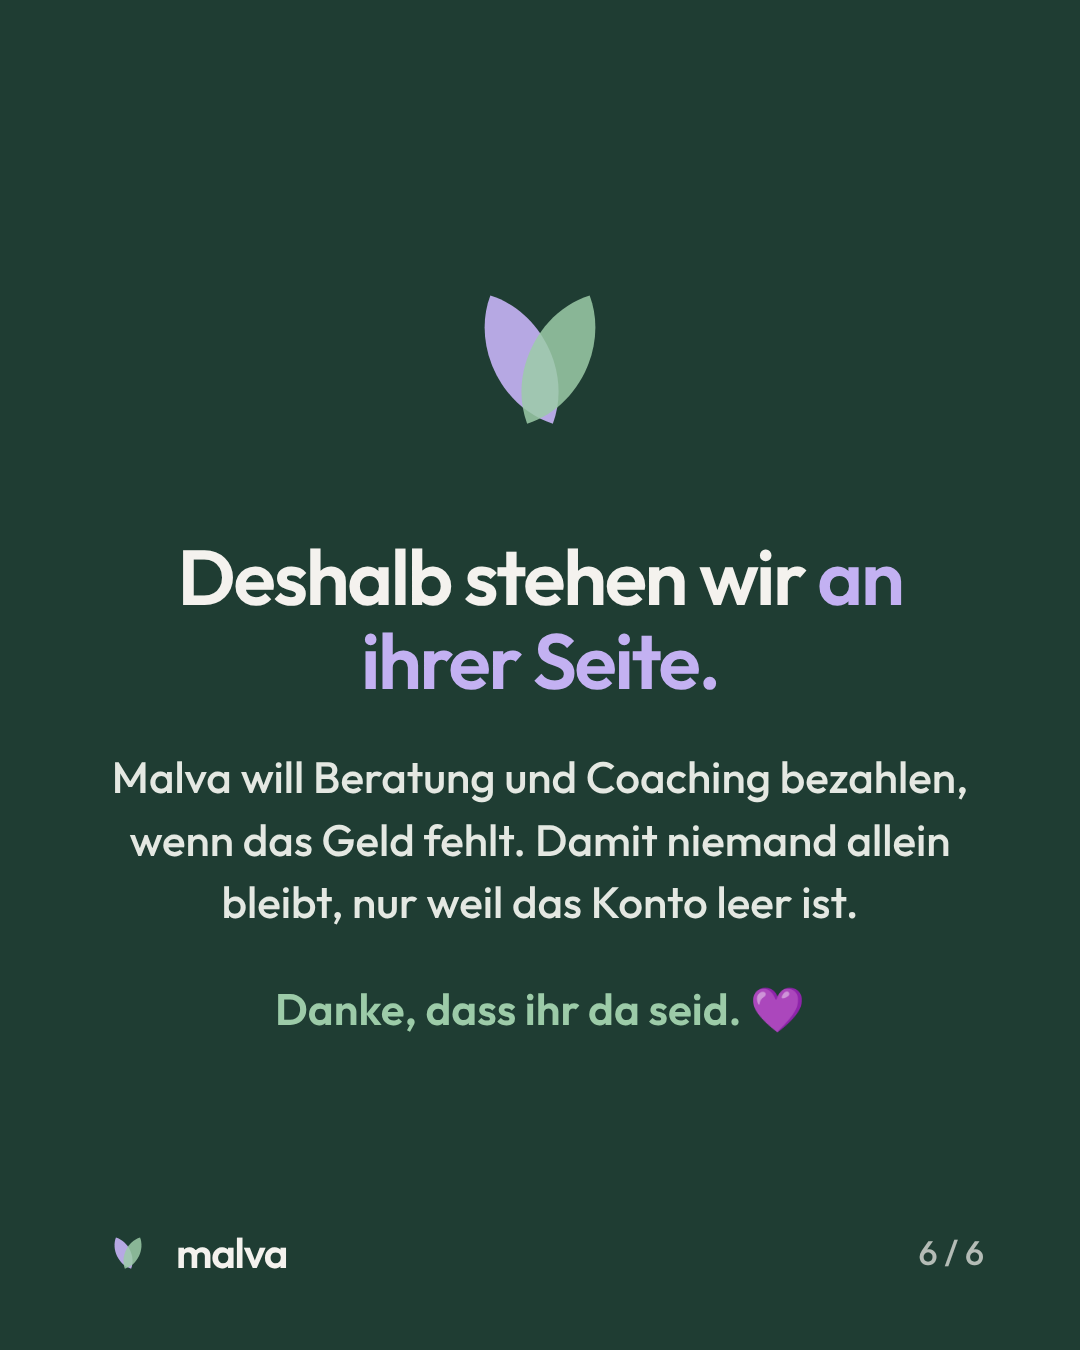
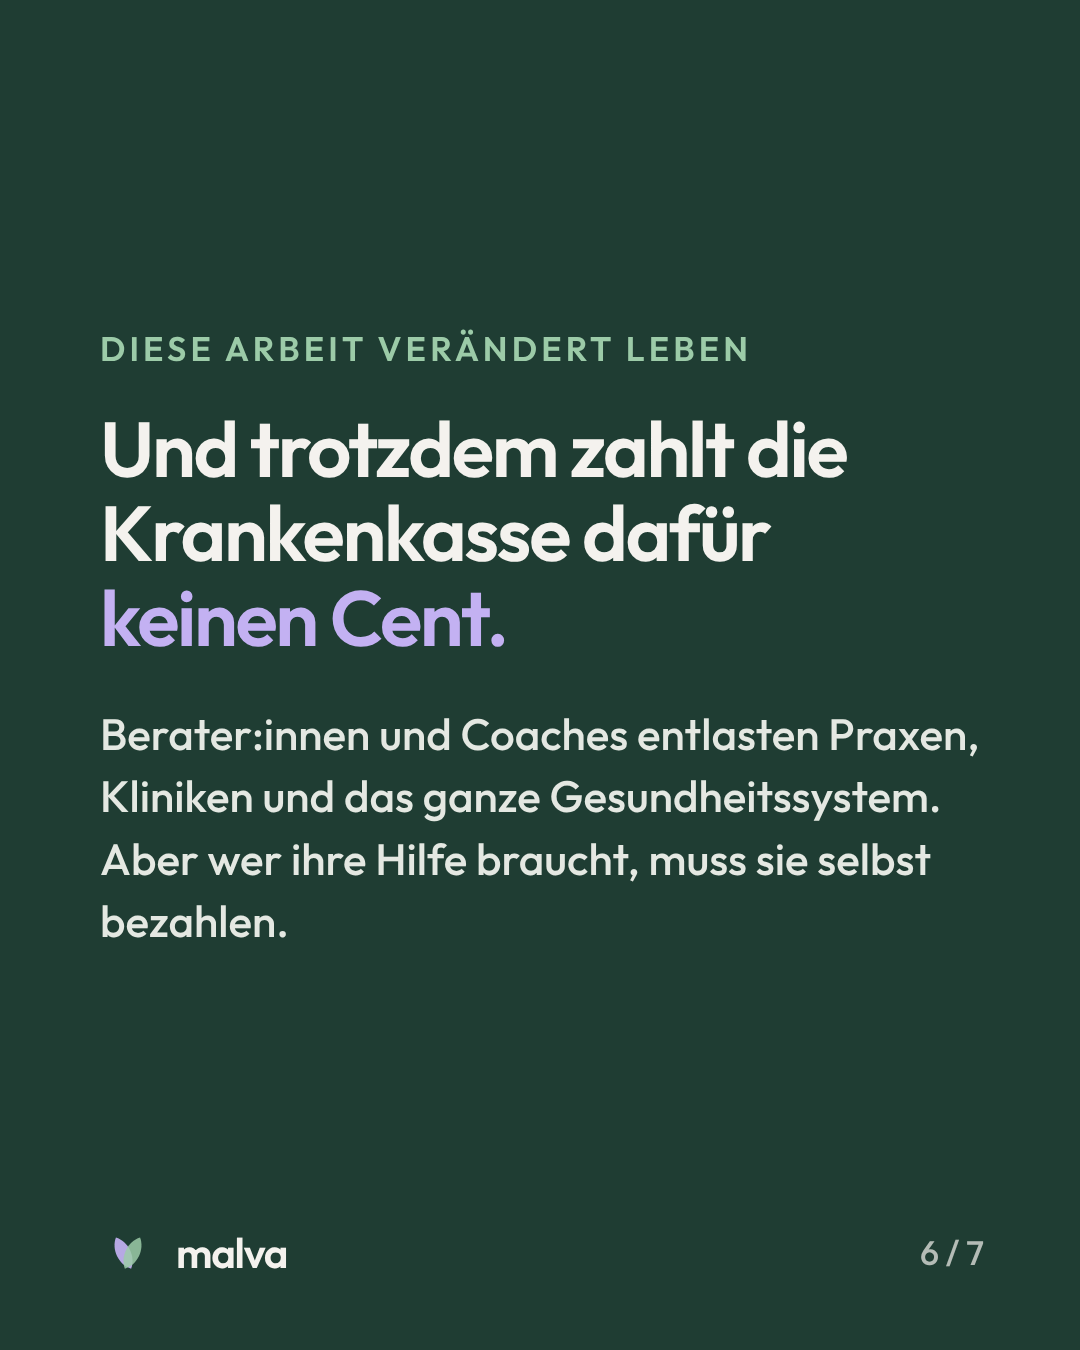
Karussell Berater: 7 Folien, neue Reihenfolge
Claude-Session: https://claude.ai/code/session_015uEer6M6e5oi78ZvJtGjnt

diff --git a/malva-website/instagram/berater-coaches/slides.html b/malva-website/instagram/berater-coaches/slides.html
@@ -74,7 +74,8 @@ h2{font-weight:600;font-size:84px;line-height:1.06;letter-spacing:-.03em}
 <section class="slide dark" id="s1">
   <span class="deco" data-mark="d"></span>
   <p class="kicker">Für alle Berater:innen und Coaches</p>
-  <h2 class="big">Manchmal braucht es nur einen Menschen, der zuhört, <span class="hl">bevor alles zerbricht.</span></h2>
+  <h2 class="big">Berater:innen und Coaches fangen Menschen auf, <span class="hl">bevor sie fallen.</span></h2>
+  <p class="lead2">Manchmal braucht es nur einen Menschen, der zuhört und hilft, bevor alles zerbricht.</p>
   <div class="foot"><div class="brand" data-mark="d"><span>malva</span></div><span class="swipe">Wischen →</span></div>
 </section>
 
@@ -87,39 +88,45 @@ h2{font-weight:600;font-size:84px;line-height:1.06;letter-spacing:-.03em}
     <div><span data-mark="h"></span>Der Mensch, der nicht mehr weiß, wer er ist</div>
     <div><span data-mark="h"></span>Das Paar, das kurz vor dem Aus steht</div>
   </div>
-  <div class="foot"><div class="brand" data-mark="h"><span>malva</span></div><span class="num">2 / 6</span></div>
+  <div class="foot"><div class="brand" data-mark="h"><span>malva</span></div><span class="num">2 / 7</span></div>
 </section>
 
-<section class="slide dark" id="s3">
-  <h2 class="big">Sie fangen auf, <span class="hl">bevor jemand fällt.</span></h2>
+<section class="slide light" id="s3">
+  <span class="deco" data-mark="h" style="opacity:.14"></span>
+  <h2 class="big">Sie sind da, kurz bevor aus Belastung <span class="hl">Krankheit wird.</span></h2>
+  <div class="foot"><div class="brand" data-mark="h"><span>malva</span></div><span class="num">3 / 7</span></div>
+</section>
+
+<section class="slide dark" id="s4">
+  <h2 class="big">Früh aufgefangen <span class="hl">statt spät behandelt.</span></h2>
   <p class="lead2">Ein Gespräch zur richtigen Zeit kann verhindern, dass aus Erschöpfung ein Burnout wird oder aus Traurigkeit eine Depression.</p>
   <p class="lead2" style="color:var(--sl);font-weight:600">Oft, bevor eine Klinik oder Therapie nötig wird.</p>
-  <div class="foot"><div class="brand" data-mark="d"><span>malva</span></div><span class="num">3 / 6</span></div>
+  <div class="foot"><div class="brand" data-mark="d"><span>malva</span></div><span class="num">4 / 7</span></div>
 </section>
 
-<section class="slide light" id="s4" style="background:var(--tint)">
-  <p class="kicker">Und es heilt nie nur ein Mensch</p>
-  <h2 class="mid">Wenn einer wieder Halt findet, <span class="hl">atmet die ganze Familie auf.</span></h2>
+<section class="slide light" id="s5" style="background:var(--tint)">
+  <p class="kicker">Und sie helfen mehr als nur einem Menschen</p>
+  <h2 class="mid">Wenn ein Mensch Halt findet, <span class="hl">spürt das die ganze Familie.</span></h2>
   <div class="rows">
-    <div><span data-mark="h"></span>Kinder erleben wieder Eltern, die lachen</div>
+    <div><span data-mark="h"></span>Kinder erleben wieder lachende Eltern</div>
     <div><span data-mark="h"></span>Partner finden wieder zueinander</div>
     <div><span data-mark="h"></span>Ein Zuhause wird wieder sicher</div>
   </div>
-  <div class="foot"><div class="brand" data-mark="h"><span>malva</span></div><span class="num">4 / 6</span></div>
+  <div class="foot"><div class="brand" data-mark="h"><span>malva</span></div><span class="num">5 / 7</span></div>
 </section>
 
-<section class="slide dark" id="s5">
+<section class="slide dark" id="s6">
   <p class="kicker">Diese Arbeit verändert Leben</p>
-  <h2 class="mid">Und trotzdem zahlen die Krankenkassen dafür <span class="hl">keinen Cent.</span></h2>
-  <p class="lead2">Wer Hilfe am dringendsten braucht, kann sie sich oft am wenigsten leisten.</p>
-  <div class="foot"><div class="brand" data-mark="d"><span>malva</span></div><span class="num">5 / 6</span></div>
+  <h2 class="mid">Und trotzdem zahlt die Krankenkasse dafür <span class="hl">keinen Cent.</span></h2>
+  <p class="lead2">Berater:innen und Coaches entlasten Praxen, Kliniken und das ganze Gesundheitssystem. Aber wer ihre Hilfe braucht, muss sie selbst bezahlen.</p>
+  <div class="foot"><div class="brand" data-mark="d"><span>malva</span></div><span class="num">6 / 7</span></div>
 </section>
 
-<section class="slide dark" id="s6" style="text-align:center;align-items:center">
+<section class="slide dark" id="s7" style="text-align:center;align-items:center">
   <span class="mark-big" data-mark="d"></span>
   <h2 class="mid">Deshalb stehen wir <span class="hl">an ihrer Seite.</span></h2>
   <p class="lead2">Malva will Beratung und Coaching bezahlen, wenn das Geld fehlt. Damit niemand allein bleibt, nur weil das Konto leer ist.</p>
-  <p class="lead2" style="color:var(--sl);font-weight:600">Danke, dass ihr da seid. 💜</p>
-  <div class="foot"><div class="brand" data-mark="d"><span>malva</span></div><span class="num">6 / 6</span></div>
+  <p class="lead2" style="color:var(--sl);font-weight:600">Danke an alle Berater:innen und Coaches 💜</p>
+  <div class="foot"><div class="brand" data-mark="d"><span>malva</span></div><span class="num">7 / 7</span></div>
 </section>
 <script>document.querySelectorAll("[data-mark]").forEach(el=>el.prepend(document.getElementById("mark-"+el.dataset.mark).content.cloneNode(true)));</script></body></html>
